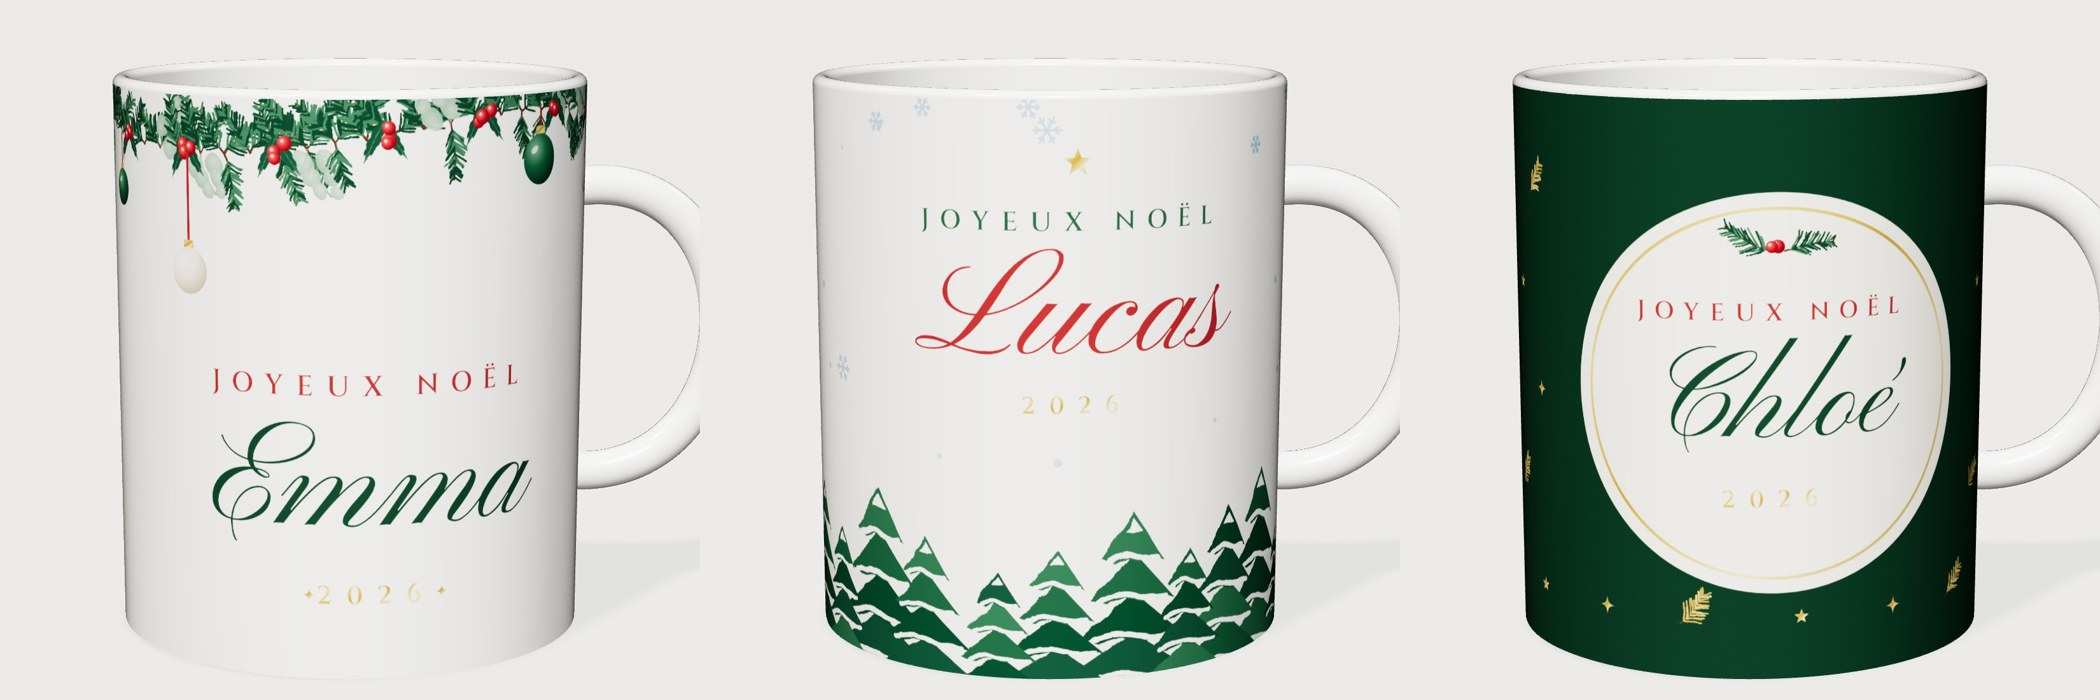
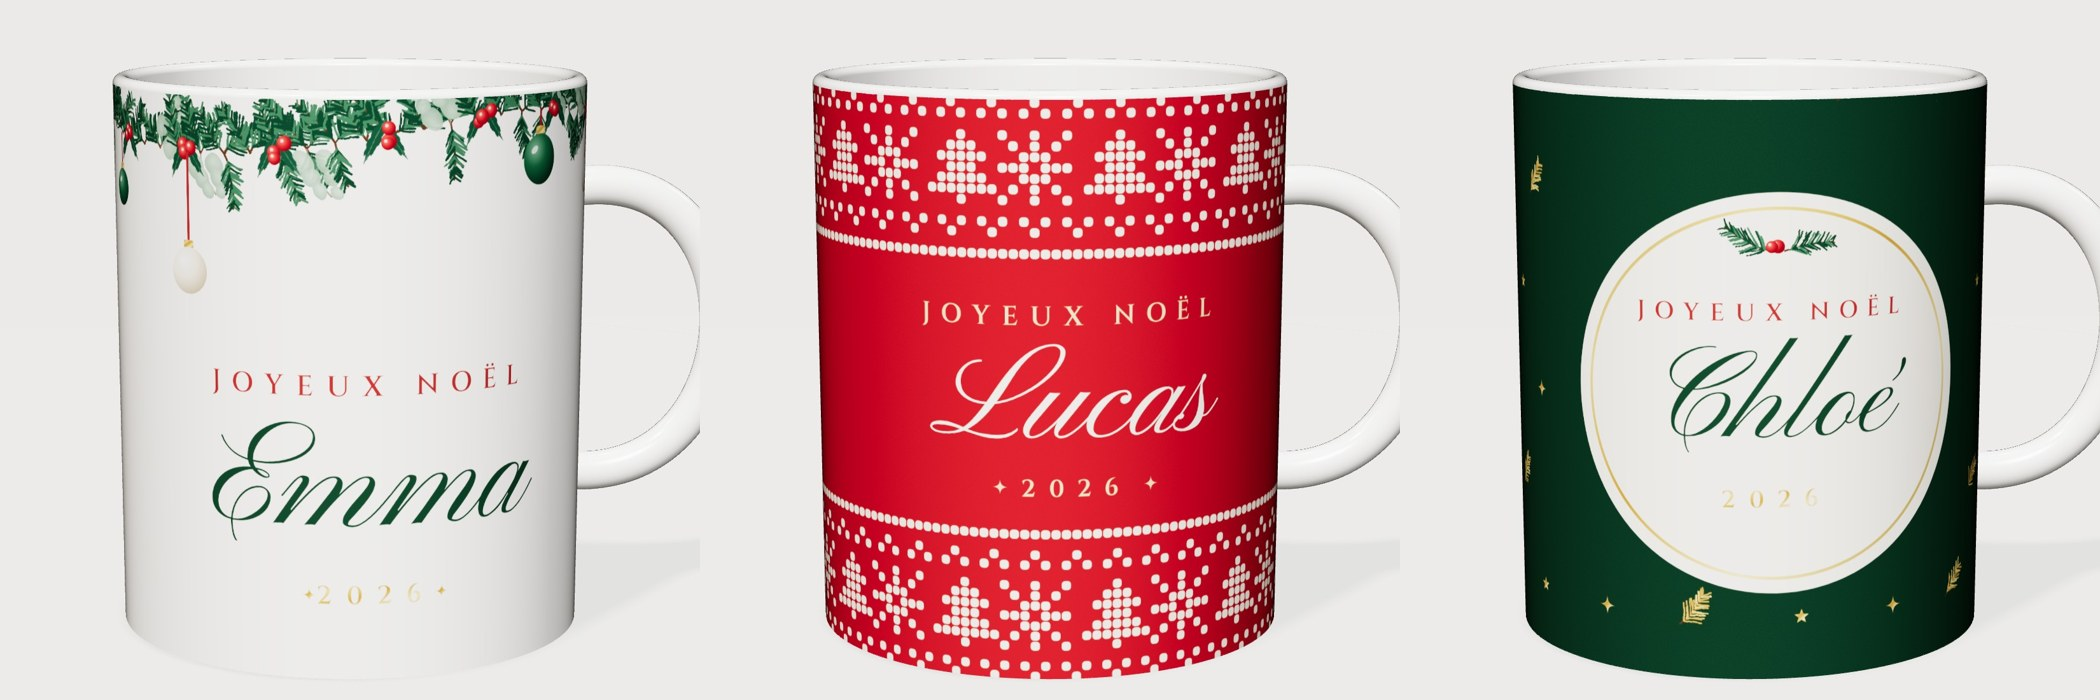
Remplace le mug forêt par un mug rouge façon pull de Noël
Claude-Session: https://claude.ai/code/session_014GDdWm3BuH8EgZGK2oQs5J

Changed region(s): [[0.3714, 0.12, 0.619, 0.99]]

diff --git a/designs/mugs-premium/outils/mugs3.js b/designs/mugs-premium/outils/mugs3.js
@@ -36,6 +36,21 @@ function fir(x, base, h) { const tiers = 4, greens = ['#1f4a33', '#2a5c40', '#34
   g += `<path d="M${x} ${base - h * 1.02}l${h * .05} ${h * .07}h${-h * .1}z" fill="#fff"/>`;
   return `<g filter="url(#wc)">${g}</g>`; }
 
+
+// motifs tricotés (pull de Noël)
+const KC = 9.5, KCOLS = 150;
+const SNOW = ['X..X..X', '.X.X.X.', '..XXX..', 'XXX.XXX', '..XXX..', '.X.X.X.', 'X..X..X'];
+const TREE = ['...X...', '..XXX..', '.XXXXX.', '..XXX..', '.XXXXX.', 'XXXXXXX', '...X...'];
+function knitBand(y0, col, flip) { let s = ''; const cell = (c, r) => `<rect x="${c * KC + KC * .07}" y="${y0 + r * KC + KC * .07}" width="${KC * .86}" height="${KC * .86}" rx="${KC * .3}" fill="${col}"/>`;
+  const rows = [];
+  rows.push(c => true); rows.push(c => false);
+  rows.push(c => c % 4 === 0); rows.push(c => c % 4 === 1 || c % 4 === 3); rows.push(c => false);
+  for (let r = 0; r < 7; r++) rows.push(c => { const m = c % 15; if (m < 7) return SNOW[r][m] === 'X'; if (m === 7) return false; return TREE[r][m - 8] === 'X'; });
+  rows.push(c => false); rows.push(c => c % 4 === 1 || c % 4 === 3); rows.push(c => c % 4 === 0); rows.push(c => false); rows.push(c => true);
+  const order = flip ? rows.slice().reverse() : rows;
+  order.forEach((fn, r) => { for (let c = 0; c < KCOLS; c++) if (fn(c)) s += cell(c, r); });
+  return s; }
+
 const D = {
   // A — Guirlande de sapin et boules suspendues tout autour du haut du mug
   'guirlande': n => { L.setSeed(21); let s = EXTRA + garlandBand(70, 18);
@@ -43,13 +58,10 @@ const D = {
     for (let x = 60, i = 0; x < VW; x += 118, i++) { if (SIDES.some(c => Math.abs(x - c) < 150)) continue; const len = L.R(40, 130); s += bauble(x, 70 + Math.sin(x / VW * Math.PI * 4) * 18 + len, L.R(16, 24), fills[i % 4], len); }
     for (const c of SIDES) s += caps(c, 300, 'JOYEUX NOËL', 26, '#a3312f', .45) + script(c, 420, n, fit(n, 140), '#1f4430') + caps(c, 492, '2026', 24, 'url(#gold)', .55) + L.sparkle(c - 62, 484, 7) + L.sparkle(c + 62, 484, 7);
     return s; },
-  // B — Forêt enneigée en aquarelle tout le long du bas, flocons qui tombent
-  'foret': n => { L.setSeed(42); let s = EXTRA;
-    for (let i = 0; i < 70; i++) { const x = L.R(10, VW - 10), y = L.R(20, 380); if (SIDES.some(c => Math.abs(x - c) < 250 && y > 90 && y < 330)) continue; s += i % 3 ? `<circle cx="${x}" cy="${y}" r="${L.R(2, 4)}" fill="#a9c6d6" opacity=".8"/>` : L.flake(x, y, L.R(8, 13), '#a9c6d6', 2); }
-    const trees = []; for (let x = -30; x < VW + 40; x += L.R(48, 74)) trees.push([x, L.R(110, 190)]);
-    trees.sort((a, b) => b[1] - a[1]).forEach(([x, h]) => s += fir(x, 586, h));
-    s += `<path d="M0 578 C 300 566 600 590 ${VW / 2} 576 S 1200 566 ${VW} 578 V${VH} H0Z" fill="#fff"/>`;
-    for (const c of SIDES) s += L.star(c, 92, 13) + caps(c, 152, 'JOYEUX NOËL', 24, '#2f5c40', .45) + script(c, 262, n, fit(n, 138), '#a3312f') + caps(c, 316, '2026', 22, 'url(#gold)', .55);
+  // B — Pull de Noël rouge, motifs tricotés tout autour
+  'pull-rouge': n => { let s = EXTRA + `<rect width="${VW}" height="${VH}" fill="#b01f28"/><rect width="${VW}" height="${VH}" filter="url(#grain)" opacity=".5"/>`;
+    s += knitBand(16, '#fbf3e4', false) + knitBand(VH - 16 - 17 * KC, '#fbf3e4', false);
+    for (const c of SIDES) s += caps(c, 236, 'JOYEUX NOËL', 24, '#f3d9a4', .45) + script(c, 338, n, fit(n, 124), '#fffaf0') + L.sparkle(c - 70, 384, 7, '#f3d9a4') + caps(c, 392, '2026', 22, '#f3d9a4', .55) + L.sparkle(c + 70, 384, 7, '#f3d9a4');
     return s; },
   // C — Nuit verte et branches dorées, étiquette crème
   'nuit-doree': n => { L.setSeed(9); let s = EXTRA + `<rect width="${VW}" height="${VH}" fill="#173a29"/><rect width="${VW}" height="${VH}" filter="url(#grain)" opacity=".6"/>`;
@@ -60,7 +72,7 @@ const D = {
       ${caps(c, 232, 'JOYEUX NOËL', 22, '#a3312f', .42)}${script(c, 338, n, fit(n, 116), '#1f4430')}${caps(c, 402, '2026', 22, 'url(#gold)', .55)}`;
     return s; }
 };
-const NAMES = { 'guirlande': 'Emma', 'foret': 'Lucas', 'nuit-doree': 'Chloé' };
+const NAMES = { 'guirlande': 'Emma', 'pull-rouge': 'Lucas', 'nuit-doree': 'Chloé' };
 (async () => { const b = await chromium.launch(); const p = await b.newPage({ viewport: { width: 2850, height: 1200 } });
   for (const [k, name] of Object.entries(NAMES)) for (const [suf, n] of [['', name], ['-sans-prenom', '']]) {
     await p.setContent(`<html><head>${FONTS}<style>html,body{margin:0;background:transparent}</style></head><body><svg xmlns="http://www.w3.org/2000/svg" viewBox="0 0 ${VW} ${VH}" width="2850" height="1200">${L.DEFS}${D[k](n)}</svg></body></html>`);
